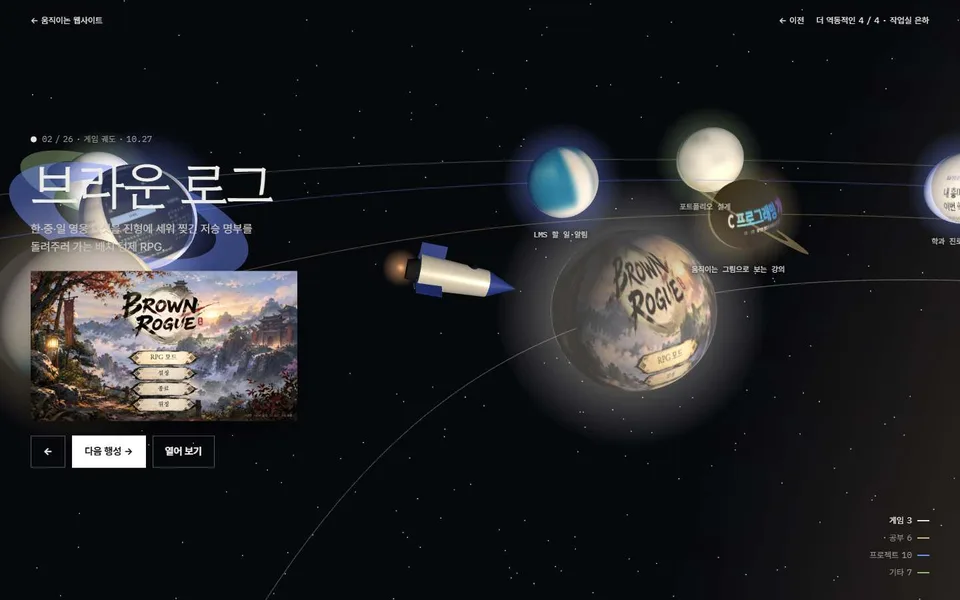
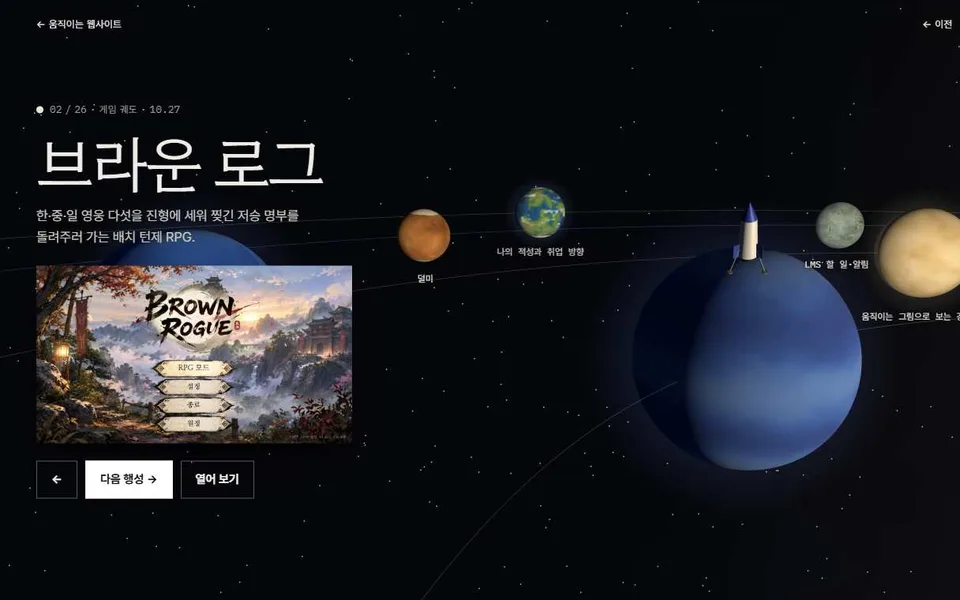
움직이는 웹사이트: 화면 배율 200%에서 3D가 잘리던 문제, 행성 착륙·실제 천체 겉면, 쫄라맨 천천히
- drive·planet: 3D 그림판(#gl)에 width/height 100% — 배율 200% 노트북에서 그림이 두 배로 그려져 왼쪽 위만 보이던 것(차가 화면 밖)을 고침, 계기판은 왼쪽 위로
- planet: 작품 그림 대신 지구·화성·목성·토성·해왕성·천왕성·달·금성·유로파·이오를 본뜬 겉면을 코드로 그림, 우주선이 이륙→비행→행성 위에 수직 착륙(다리·먼지 고리), 도착 화면은 해 쪽에서 비스듬히
- push: 한 번 넘기는 스크롤 1.9 → 3.8 화면, 스크롤을 부드럽게 따라가게

diff --git a/web-motion/move/planet.html b/web-motion/move/planet.html
@@ -7,11 +7,13 @@
 <link rel="stylesheet" href="../apply/apply.css">
 <script type="importmap">{"imports":{"three":"https://cdn.jsdelivr.net/npm/three@0.170.0/build/three.module.js"}}</script>
 <style>
-/* 작품 26개가 행성. 분류마다 궤도 하나(안쪽부터 게임·공부·프로젝트·기타), 행성은 그 궤도 둘레에 고르게. 우주선이 하나씩 날아가 도착하면 정보가 뜸 */
-body { height: 100svh; overflow: hidden; background: #07080c; color: var(--on-dark); user-select: none; -webkit-user-select: none }
-#gl { position: fixed; inset: 0 }
+/* 작품 26개가 행성. 분류마다 궤도 하나(안쪽부터 게임·공부·프로젝트·기타), 행성은 그 궤도 둘레에 고르게.
+   행성 겉면은 실제 태양계 천체(지구·화성·목성·토성·해왕성·천왕성·달·금성·유로파·이오)를 본떠 코드로 그리고 무늬만 조금씩 바꿈.
+   우주선이 이륙 → 날아감 → 다음 행성에 수직으로 착륙하면 정보가 뜸 */
+body { height: 100svh; overflow: hidden; background: #05060a; color: var(--on-dark); user-select: none; -webkit-user-select: none }
+#gl { position: fixed; inset: 0; width: 100%; height: 100%; display: block } /* 화면 배율 200%에서도 화면 크기에 맞게 */
 .top { color: var(--on-dark) }
-.lab { position: fixed; z-index: 3; left: 0; top: 0; pointer-events: none; font: 500 11.5px var(--mono); color: #d8d6cf; white-space: nowrap; transform: translate(-50%, 0); transition: opacity .3s; text-shadow: 0 1px 6px #000 }
+.lab { position: fixed; z-index: 3; left: 0; top: 0; pointer-events: none; font: 500 11.5px var(--mono); color: #d8d6cf; white-space: nowrap; transition: opacity .3s; text-shadow: 0 1px 6px #000 }
 .info { position: fixed; z-index: 10; left: var(--m); top: 50%; width: min(400px, calc(100vw - 32px)); transform: translate(-30px, -50%); opacity: 0; pointer-events: none; transition: opacity .5s, transform .6s var(--ease) }
 .info.on { opacity: 1; transform: translate(0, -50%); pointer-events: auto }
 .info .meta { color: var(--on-dark-soft) }
@@ -49,85 +51,140 @@ import * as THREE from "three";
 import { WORKS, ROOT } from "../apply/works.js";
 const $ = id => document.getElementById(id);
 const calm = matchMedia("(prefers-reduced-motion: reduce)").matches;
-const CATS = ["게임", "공부", "프로젝트", "기타"], RAD = [16, 27, 39, 52];
+const CATS = ["게임", "공부", "프로젝트", "기타"], RAD = [26, 46, 68, 90];
 const COL = { 게임: "#e9e5da", 공부: "#d6b77a", 프로젝트: "#6f8cff", 기타: "#93b27c" };
-const cl = (x, a, b) => Math.min(b, Math.max(a, x)), ease = k => k < .5 ? 4 * k * k * k : 1 - (-2 * k + 2) ** 3 / 2;
+const cl = (x, a, b) => Math.min(b, Math.max(a, x)), lerp = (a, b, k) => a + (b - a) * k;
+const ease = k => k < .5 ? 4 * k * k * k : 1 - (-2 * k + 2) ** 3 / 2, easeOut = k => 1 - (1 - k) ** 3, easeIn = k => k * k;
+const UP = new THREE.Vector3(0, 1, 0);
 
 /* ───────── 장면 ───────── */
 const renderer = new THREE.WebGLRenderer({ canvas: $("gl"), antialias: true });
 renderer.setPixelRatio(Math.min(devicePixelRatio, 2));
-const scene = new THREE.Scene(); scene.background = new THREE.Color(0x07080c);
-const camera = new THREE.PerspectiveCamera(50, 1, .1, 2000);
-function resize() { renderer.setSize(innerWidth, innerHeight, false); camera.aspect = innerWidth / innerHeight; camera.updateProjectionMatrix(); }
+const scene = new THREE.Scene(); scene.background = new THREE.Color(0x05060a);
+const camera = new THREE.PerspectiveCamera(48, 1, .1, 3000);
+function resize() { renderer.setSize(innerWidth, innerHeight); camera.aspect = innerWidth / innerHeight; camera.updateProjectionMatrix(); }
 addEventListener("resize", resize); resize();
-scene.add(new THREE.AmbientLight(0x8890a8, .35));
-const sunLight = new THREE.PointLight(0xfff1d6, 3.2, 0, 0); scene.add(sunLight);
+scene.add(new THREE.AmbientLight(0x6f7894, .28));
+scene.add(new THREE.PointLight(0xfff1d6, 3.4, 0, 0));
 function glowTex(c) { const cv = document.createElement("canvas"); cv.width = cv.height = 128; const g = cv.getContext("2d"), gr = g.createRadialGradient(64, 64, 0, 64, 64, 64);
-  gr.addColorStop(0, c); gr.addColorStop(.25, c + "88"); gr.addColorStop(1, c + "00"); g.fillStyle = gr; g.fillRect(0, 0, 128, 128); const t = new THREE.CanvasTexture(cv); t.colorSpace = THREE.SRGBColorSpace; return t; }
-const glow = (c, s) => { const sp = new THREE.Sprite(new THREE.SpriteMaterial({ map: glowTex(c), blending: THREE.AdditiveBlending, depthWrite: false, transparent: true })); sp.scale.setScalar(s); return sp; };
-// 별
-{ const n = 3000, pos = new Float32Array(n * 3); for (let i = 0; i < n; i++) { const v = new THREE.Vector3().randomDirection().multiplyScalar(350 + Math.random() * 400); pos.set([v.x, v.y, v.z], i * 3); }
+  gr.addColorStop(0, c); gr.addColorStop(.3, c + "66"); gr.addColorStop(1, c + "00"); g.fillStyle = gr; g.fillRect(0, 0, 128, 128); const t = new THREE.CanvasTexture(cv); t.colorSpace = THREE.SRGBColorSpace; return t; }
+const glow = (c, s, o = 1) => { const sp = new THREE.Sprite(new THREE.SpriteMaterial({ map: glowTex(c), blending: THREE.AdditiveBlending, depthWrite: false, transparent: true, opacity: o })); sp.scale.setScalar(s); return sp; };
+{ const n = 3500, pos = new Float32Array(n * 3); for (let i = 0; i < n; i++) { const v = new THREE.Vector3().randomDirection().multiplyScalar(600 + Math.random() * 600); pos.set([v.x, v.y, v.z], i * 3); }
   const g = new THREE.BufferGeometry(); g.setAttribute("position", new THREE.BufferAttribute(pos, 3));
-  scene.add(new THREE.Points(g, new THREE.PointsMaterial({ color: 0xffffff, size: 1.6, sizeAttenuation: false, transparent: true, opacity: .75 }))); }
-// 해 = 작업실
-const sun = new THREE.Mesh(new THREE.SphereGeometry(4.6, 48, 32), new THREE.MeshBasicMaterial({ color: 0xfff1d6 })); scene.add(sun, glow("#ffd9a0", 24));
-// 궤도
-CATS.forEach((c, k) => { const pts = []; for (let i = 0; i <= 256; i++) { const a = i / 256 * Math.PI * 2; pts.push(new THREE.Vector3(Math.cos(a) * RAD[k], 0, Math.sin(a) * RAD[k])); }
-  scene.add(new THREE.Line(new THREE.BufferGeometry().setFromPoints(pts), new THREE.LineBasicMaterial({ color: COL[c], transparent: true, opacity: .32 }))); });
+  scene.add(new THREE.Points(g, new THREE.PointsMaterial({ color: 0xffffff, size: 1.5, sizeAttenuation: false, transparent: true, opacity: .7 }))); }
+const sun = new THREE.Mesh(new THREE.SphereGeometry(8, 48, 32), new THREE.MeshBasicMaterial({ color: 0xfff0d0 })); scene.add(sun, glow("#ffd59a", 46));
+CATS.forEach((c, k) => { const pts = []; for (let i = 0; i <= 320; i++) { const a = i / 320 * Math.PI * 2; pts.push(new THREE.Vector3(Math.cos(a) * RAD[k], 0, Math.sin(a) * RAD[k])); }
+  scene.add(new THREE.Line(new THREE.BufferGeometry().setFromPoints(pts), new THREE.LineBasicMaterial({ color: COL[c], transparent: true, opacity: .3 }))); });
 
-/* ───────── 행성: 분류마다 궤도 둘레에 고르게, 표면은 그 작품 그림 ───────── */
-const loader = new THREE.TextureLoader(), planets = [];
+/* ───────── 행성 겉면: 실제 천체를 본떠 코드로 그림 (겹치지 않게 씨앗·색을 조금씩 바꿈) ───────── */
+const PERM = new Uint8Array(512), RV = new Float32Array(256);
+{ const p = [...Array(256).keys()]; let s = 11; for (let i = 255; i > 0; i--) { s = (s * 16807) % 2147483647; const j = s % (i + 1); [p[i], p[j]] = [p[j], p[i]]; } for (let i = 0; i < 512; i++) PERM[i] = p[i & 255];
+  for (let i = 0; i < 256; i++) { s = (s * 16807) % 2147483647; RV[i] = s / 2147483647; } }
+function vn(x, y, z) { // 3D 값 노이즈 (구 위에서 이음매 없음)
+  const X = Math.floor(x), Y = Math.floor(y), Z = Math.floor(z), fx = x - X, fy = y - Y, fz = z - Z, u = fx * fx * (3 - 2 * fx), v = fy * fy * (3 - 2 * fy), w = fz * fz * (3 - 2 * fz);
+  const h = (i, j, k) => RV[PERM[PERM[PERM[(X + i) & 255] + ((Y + j) & 255)] + ((Z + k) & 255)]];
+  const a = lerp(lerp(h(0, 0, 0), h(1, 0, 0), u), lerp(h(0, 1, 0), h(1, 1, 0), u), v), b = lerp(lerp(h(0, 0, 1), h(1, 0, 1), u), lerp(h(0, 1, 1), h(1, 1, 1), u), v);
+  return lerp(a, b, w);
+}
+function fbm(x, y, z, o = 4) { let a = .5, s = 0, f = 1, n = 0; for (let i = 0; i < o; i++) { s += a * vn(x * f, y * f, z * f); n += a; f *= 2.03; a *= .5; } return s / n; }
+const hex = h => [parseInt(h.slice(1, 3), 16), parseInt(h.slice(3, 5), 16), parseInt(h.slice(5, 7), 16)];
+const mixc = (a, b, k) => [lerp(a[0], b[0], k), lerp(a[1], b[1], k), lerp(a[2], b[2], k)];
+const ramp = (cols, k) => { k = cl(k, 0, .9999) * (cols.length - 1); const i = Math.floor(k); return mixc(cols[i], cols[i + 1], k - i); };
+// 종류: 크기, 고리, 대기빛, 그리는 법 (x,y,z = 구 위 점, lat = 위도 -1~1, s = 씨앗)
+const KIND = {
+  지구: { R: 3.4, air: "#7fb0ff", f(x, y, z, lat, s) { const n = fbm(x * 1.8 + s, y * 1.8, z * 1.8 + s, 5), c = fbm(x * 3.5 - s, y * 6, z * 3.5, 4);
+    let col = n < .5 ? mixc(hex("#0b2a5c"), hex("#1d5a9e"), cl((n - .3) / .2, 0, 1)) : ramp([hex("#3f6b34"), hex("#7a8a4a"), hex("#a08a5c"), hex("#8a7d70")], (n - .5) / .25);
+    if (Math.abs(lat) > .95 - n * .06) col = hex("#eef2f5"); if (c > .58) col = mixc(col, [250, 250, 252], cl((c - .58) * 4, 0, .9)); return col; } },
+  화성: { R: 2.6, f(x, y, z, lat, s) { const n = fbm(x * 2.2 + s, y * 2.2, z * 2.2, 5); let col = ramp([hex("#5e2a17"), hex("#9c4a28"), hex("#c46a3c"), hex("#d99a6c")], n * 1.15 - .05);
+    if (Math.abs(lat) > .9 - n * .08) col = mixc(col, hex("#f4ece4"), .85); return col; } },
+  목성: { R: 5.0, f(x, y, z, lat, s) { const t = fbm(x * 2 + s, y * 2, z * 2, 4), b = Math.sin(lat * (14 + s % 3) + t * 3.2);
+    let col = ramp([hex("#7a4e34"), hex("#b98a62"), hex("#e3cfae"), hex("#f2e6d0")], b * .5 + .5);
+    const lon = Math.atan2(z, x), dl = (lon - 1 - s % 2) * 1.6, dy = (lat + .32) * 9; if (dl * dl + dy * dy < 1) col = mixc(col, hex("#b44a2a"), .7 * (1 - dl * dl - dy * dy)); return col; } },
+  토성: { R: 4.4, ring: [1.35, 2.25, "#d9c79f"], f(x, y, z, lat, s) { const t = fbm(x * 2 + s, y * 2, z * 2, 3), b = Math.sin(lat * 11 + t * 1.6);
+    return ramp([hex("#a98a5a"), hex("#d6bf8e"), hex("#ece0bd")], b * .5 + .5); } },
+  해왕성: { R: 3.5, air: "#6f8cff", f(x, y, z, lat, s) { const t = fbm(x * 2 + s, y * 3, z * 2, 4), b = Math.sin(lat * 7 + t * 2.4);
+    let col = ramp([hex("#1d3c9c"), hex("#2f5fd0"), hex("#5d8be8")], b * .35 + .5); const lon = Math.atan2(z, x), dl = (lon + s % 2) * 2, dy = (lat - .25) * 10; if (dl * dl + dy * dy < 1) col = mixc(col, hex("#0f1f5c"), .7); return col; } },
+  천왕성: { R: 3.3, air: "#a6e6ea", ring: [1.5, 1.7, "#c6e8ea"], f(x, y, z, lat, s) { const t = fbm(x * 1.5 + s, y * 4, z * 1.5, 3); return ramp([hex("#8fd2da"), hex("#b2e6ea"), hex("#c9eef0")], Math.sin(lat * 5 + t) * .3 + .5); } },
+  달: { R: 2.3, f(x, y, z, lat, s) { const n = fbm(x * 2.6 + s, y * 2.6, z * 2.6, 5); let col = ramp([hex("#4e4e52"), hex("#8c8c8e"), hex("#bdbdbb")], n * 1.2 - .1);
+    const c = vn(x * 7 + s, y * 7, z * 7); if (c > .78) col = mixc(col, hex("#3a3a3e"), (c - .78) * 3); if (c > .72 && c < .76) col = mixc(col, hex("#e0e0dc"), .5); return col; } },
+  금성: { R: 3.2, air: "#ffe2a8", f(x, y, z, lat, s) { const w = fbm(x * 1.5 + s, y * 1.5, z * 1.5, 3), n = fbm(x * 2 + w * 2.5, y * 3 + w, z * 2, 4); return ramp([hex("#c99a4c"), hex("#e3c27e"), hex("#f4e2b4")], n * 1.2 - .1); } },
+  유로파: { R: 2.4, f(x, y, z, lat, s) { const n = fbm(x * 2 + s, y * 2, z * 2, 3), r = Math.abs(fbm(x * 3.2 - s, y * 3.2, z * 3.2, 4) - .5);
+    let col = mixc(hex("#e8e2d6"), hex("#cdbfa8"), n); if (r < .018) col = mixc(col, hex("#8a4a2c"), .8 * (1 - r / .018)); return col; } },
+  이오: { R: 2.5, f(x, y, z, lat, s) { const n = fbm(x * 2.4 + s, y * 2.4, z * 2.4, 4); let col = ramp([hex("#c9a531"), hex("#e6d25a"), hex("#f2e9a0")], n);
+    const c = vn(x * 6 + s, y * 6, z * 6); if (c > .8) col = mixc(col, hex("#2a1a10"), (c - .8) * 4); else if (c > .7) col = mixc(col, hex("#d5672a"), (c - .7) * 5); return col; } },
+};
+const KIND_ORDER = ["지구", "목성", "화성", "해왕성", "토성", "달", "금성", "천왕성", "유로파", "이오"];
+const TW = 320, TH = 160;
+function paint(kind, seed, hue) { // 등장방형 그림 한 장
+  const c = document.createElement("canvas"); c.width = TW; c.height = TH; const g = c.getContext("2d"), img = g.createImageData(TW, TH), d = img.data;
+  for (let j = 0; j < TH; j++) { const la = (.5 - (j + .5) / TH) * Math.PI, cy = Math.sin(la), cr = Math.cos(la);
+    for (let i = 0; i < TW; i++) { const lo = (i + .5) / TW * Math.PI * 2, x = cr * Math.cos(lo), z = cr * Math.sin(lo);
+      const [r, gg, b] = KIND[kind].f(x, cy, z, cy, seed), k = (j * TW + i) * 4; d[k] = r; d[k + 1] = gg; d[k + 2] = b; d[k + 3] = 255; } }
+  g.putImageData(img, 0, 0); if (hue) { g.globalCompositeOperation = "color"; g.globalAlpha = .12; g.fillStyle = `hsl(${hue},60%,50%)`; g.fillRect(0, 0, TW, TH); }
+  const t = new THREE.CanvasTexture(c); t.colorSpace = THREE.SRGBColorSpace; t.anisotropy = 4; return t;
+}
+
+/* ───────── 행성: 분류마다 궤도 둘레에 고르게 ───────── */
+const planets = [];
 CATS.forEach((cat, k) => {
-  const list = WORKS.filter(w => w.cat === cat), r = RAD[k], a0 = k * .7;
+  const list = WORKS.filter(w => w.cat === cat), r = RAD[k], a0 = k * .9;
   list.forEach((w, i) => {
-    const R = 1.5 + ((w.t.length * 7 + i * 3) % 10) / 10 * 1.3, grp = new THREE.Group();
-    const m = new THREE.MeshStandardMaterial({ color: 0xffffff, roughness: .85, emissive: new THREE.Color(COL[cat]), emissiveIntensity: .06 });
-    loader.load(ROOT + w.img, t => { t.colorSpace = THREE.SRGBColorSpace; t.wrapS = THREE.RepeatWrapping; t.repeat.x = 2; m.map = t; m.needsUpdate = true; });
-    const ball = new THREE.Mesh(new THREE.SphereGeometry(R, 48, 32), m); ball.rotation.z = .3; grp.add(ball, glow(COL[cat], R * 3.4));
-    if ((i + k) % 3 === 0) { const ring = new THREE.Mesh(new THREE.RingGeometry(R * 1.4, R * 2.05, 64), new THREE.MeshBasicMaterial({ color: COL[cat], side: THREE.DoubleSide, transparent: true, opacity: .45 }));
-      ring.rotation.x = Math.PI / 2 - .5; grp.add(ring); }
+    const n = planets.length, kind = KIND_ORDER[(n * 3 + k) % KIND_ORDER.length], K = KIND[kind], R = K.R * (.9 + ((n * 37) % 10) / 50);
+    const grp = new THREE.Group(), mat = new THREE.MeshStandardMaterial({ color: 0x888888, roughness: .95, metalness: 0 });
+    const ball = new THREE.Mesh(new THREE.SphereGeometry(R, 64, 40), mat); ball.rotation.z = (n % 5 - 2) * .06; grp.add(ball);
+    if (K.air) grp.add(glow(K.air, R * 2.9, .55));
+    if (K.ring) { const [a, b, rc] = K.ring, rg = new THREE.RingGeometry(R * a, R * b, 96), uv = rg.attributes.uv, pos = rg.attributes.position;
+      for (let v = 0; v < pos.count; v++) { const d = Math.hypot(pos.getX(v), pos.getY(v)); uv.setXY(v, (d - R * a) / (R * (b - a)), 0); }
+      const rcan = document.createElement("canvas"); rcan.width = 256; rcan.height = 1; const rg2 = rcan.getContext("2d"), [cr, cg, cb] = hex(rc);
+      for (let x = 0; x < 256; x++) { const al = (.35 + .45 * vn(x * .09 + n, 0, 0)) * (x < 6 || x > 250 ? .3 : 1) * (Math.abs(x - 170) < 7 ? .15 : 1); rg2.fillStyle = `rgba(${cr},${cg},${cb},${al})`; rg2.fillRect(x, 0, 1, 1); }
+      const rt = new THREE.CanvasTexture(rcan); rt.colorSpace = THREE.SRGBColorSpace;
+      const ring = new THREE.Mesh(rg, new THREE.MeshBasicMaterial({ map: rt, side: THREE.DoubleSide, transparent: true, depthWrite: false })); ring.rotation.x = Math.PI / 2 - .38; grp.add(ring); }
     scene.add(grp);
     const lab = document.createElement("div"); lab.className = "lab"; lab.textContent = w.t; $("labels").append(lab);
-    planets.push({ w, cat, k, r, R, a: a0 + i / list.length * Math.PI * 2, om: .016 * Math.pow(16 / r, 1.5), grp, ball, lab, pos: new THREE.Vector3() });
+    planets.push({ w, cat, k, r, R, kind, seed: n * 13.7 + 3, hue: (n * 47) % 360, mat, a: a0 + i / list.length * Math.PI * 2, om: .012 * Math.pow(26 / r, 1.5), grp, ball, lab, pos: new THREE.Vector3() });
   });
 });
-function place(p, dt) { if (!calm) p.a += p.om * dt; p.pos.set(Math.cos(p.a) * p.r, 0, Math.sin(p.a) * p.r); p.grp.position.copy(p.pos); p.ball.rotation.y += dt * .15; }
+function place(p, dt) { if (!calm) { p.a += p.om * dt; p.ball.rotation.y += dt * .04; } p.pos.set(Math.cos(p.a) * p.r, 0, Math.sin(p.a) * p.r); p.grp.position.copy(p.pos); }
 planets.forEach(p => place(p, 0));
+let paintI = 0; // 한 프레임에 하나씩 겉면 그리기 (처음 몇 초 안에 다 됨)
 $("legend").innerHTML = CATS.map((c, k) => `<span data-k="${k}" style="--c:${COL[c]}">${c} ${planets.filter(p => p.k === k).length}<i></i></span>`).join("");
 
-/* ───────── 우주선 ───────── */
-const ship = new THREE.Group(), sm = c => new THREE.MeshStandardMaterial({ color: c, roughness: .4, metalness: .2 });
-{ const body = new THREE.Mesh(new THREE.CylinderGeometry(.42, .55, 2.2, 20), sm(0xf2f1ec)); body.rotation.x = Math.PI / 2;
-  const nose = new THREE.Mesh(new THREE.ConeGeometry(.42, 1, 20), sm(0x2b44a6)); nose.rotation.x = Math.PI / 2; nose.position.z = 1.6;
-  const win = new THREE.Mesh(new THREE.SphereGeometry(.2, 16, 12), sm(0x0d1330)); win.position.set(0, .32, .55);
-  const noz = new THREE.Mesh(new THREE.CylinderGeometry(.4, .3, .4, 16), sm(0x2a2b30)); noz.rotation.x = Math.PI / 2; noz.position.z = -1.25;
+/* ───────── 우주선 (앞 = +z, 착륙하면 앞이 하늘로, 다리가 땅에) ───────── */
+const ship = new THREE.Group(), sm = c => new THREE.MeshStandardMaterial({ color: c, roughness: .45, metalness: .25 });
+{ const body = new THREE.Mesh(new THREE.CylinderGeometry(.42, .55, 2.2, 24), sm(0xf2f1ec)); body.rotation.x = Math.PI / 2;
+  const nose = new THREE.Mesh(new THREE.ConeGeometry(.42, 1, 24), sm(0x2b44a6)); nose.rotation.x = Math.PI / 2; nose.position.z = 1.6;
+  const win = new THREE.Mesh(new THREE.SphereGeometry(.2, 16, 12), sm(0x0d1330)); win.position.set(0, .34, .5);
+  const noz = new THREE.Mesh(new THREE.CylinderGeometry(.36, .28, .4, 16), sm(0x2a2b30)); noz.rotation.x = Math.PI / 2; noz.position.z = -1.25;
   ship.add(body, nose, win, noz);
-  for (let i = 0; i < 3; i++) { const f = new THREE.Mesh(new THREE.BoxGeometry(.06, .7, .8), sm(0x2b44a6)); const a = i / 3 * Math.PI * 2; f.position.set(Math.sin(a) * .55, Math.cos(a) * .55, -.75); f.rotation.z = -a; ship.add(f); } }
-const flame = new THREE.Mesh(new THREE.ConeGeometry(.3, 1.6, 16, 1, true), new THREE.MeshBasicMaterial({ color: 0xffc27a, transparent: true, opacity: .9, blending: THREE.AdditiveBlending, depthWrite: false }));
-flame.rotation.x = -Math.PI / 2; flame.position.z = -2.1; ship.add(flame); const flameGlow = glow("#ffb070", 3); flameGlow.position.z = -1.6; ship.add(flameGlow);
-ship.scale.setScalar(.8); scene.add(ship);
-// 꼬리 연기
-const TR = 160, trail = Array.from({ length: TR }, () => { const s = glow("#aab4ff", 1); s.material.opacity = 0; scene.add(s); return { s, life: 0 }; }); let trI = 0;
-// 도착 고리
-const pulse = new THREE.Mesh(new THREE.RingGeometry(.96, 1, 96), new THREE.MeshBasicMaterial({ color: 0xffffff, transparent: true, opacity: 0, side: THREE.DoubleSide, depthWrite: false })); scene.add(pulse); let pulseT = -1, pulseP = null;
+  for (let i = 0; i < 3; i++) { const a = i / 3 * Math.PI * 2 + Math.PI / 3, f = new THREE.Mesh(new THREE.BoxGeometry(.06, .6, .8), sm(0x2b44a6)); f.position.set(Math.sin(a) * .58, Math.cos(a) * .58, -.7); f.rotation.z = -a; ship.add(f);
+    // 착륙 다리: 몸 옆에서 바깥·아래로
+    const top = new THREE.Vector3(Math.sin(a) * .5, Math.cos(a) * .5, -.6), foot = new THREE.Vector3(Math.sin(a) * 1.05, Math.cos(a) * 1.05, -1.9);
+    const leg = new THREE.Mesh(new THREE.CylinderGeometry(.04, .04, top.distanceTo(foot), 6), sm(0x8f8b80)); leg.position.copy(top).add(foot).multiplyScalar(.5);
+    leg.quaternion.setFromUnitVectors(new THREE.Vector3(0, 1, 0), foot.clone().sub(top).normalize()); ship.add(leg);
+    const pd = new THREE.Mesh(new THREE.CylinderGeometry(.16, .16, .05, 12), sm(0x8f8b80)); pd.position.copy(foot); pd.rotation.x = Math.PI / 2; ship.add(pd); } }
+const flame = new THREE.Mesh(new THREE.ConeGeometry(.28, 1.6, 16, 1, true), new THREE.MeshBasicMaterial({ color: 0xffc27a, transparent: true, opacity: .8, blending: THREE.AdditiveBlending, depthWrite: false }));
+flame.rotation.x = -Math.PI / 2; flame.position.z = -2.1; ship.add(flame); const flameGlow = glow("#ffb070", 2.4); flameGlow.position.z = -1.6; ship.add(flameGlow);
+const SCALE = .72, FOOT = 1.92 * SCALE; ship.scale.setScalar(SCALE); scene.add(ship);
+const TR = 140, trail = Array.from({ length: TR }, () => { const s = glow("#b9c2ff", 1, 0); scene.add(s); return { s, life: 0 }; }); let trI = 0;
+const dustRing = new THREE.Mesh(new THREE.RingGeometry(.9, 1, 64), new THREE.MeshBasicMaterial({ color: 0xffffff, transparent: true, opacity: 0, side: THREE.DoubleSide, depthWrite: false })); scene.add(dustRing); let dustT = -1;
 
-/* ───────── 여행 ───────── */
-const ORDER = [...planets]; // 안쪽 궤도부터, 궤도 안에선 각도 순
-let cur = -1, fly = null, thrust = 0;
-const UP = new THREE.Vector3(0, 1, 0);
-const HOME = new THREE.Vector3(7.5, 1.2, 4);
-// 행성을 보는 방향: 해 쪽에서 비스듬히(밝은 면이 보이게)
+/* ───────── 착륙 자리·보는 방향 ───────── */
+// 카메라는 해 쪽에서 비스듬히(행성 밝은 면이 보이게), 착륙은 행성 위쪽에서 카메라 쪽으로 조금 기운 자리
 function view(p) { const o = p.pos.clone().normalize(), side = new THREE.Vector3().crossVectors(UP, o);
-  const dir = o.clone().multiplyScalar(-.62).addScaledVector(side, .72).addScaledVector(UP, .32).normalize(); // 행성 → 카메라
+  const dir = o.clone().multiplyScalar(-.55).addScaledVector(side, .83).normalize(); // 행성 → 카메라(수평)
   const right = new THREE.Vector3().crossVectors(dir.clone().negate(), UP).normalize(); return { dir, right }; }
-// 우주선은 행성 왼쪽 앞에 떠서 행성을 봄 (행성을 가리지 않게)
-function park(p) { const { dir, right } = view(p); return p.pos.clone().addScaledVector(dir, p.R * .6 + 1).addScaledVector(right, -(p.R * 1.25 + 1.6)).addScaledVector(UP, p.R * .2); }
-ship.position.copy(HOME); ship.lookAt(HOME.clone().add(new THREE.Vector3(1, 0, 0)));
+function pad(p) { const { dir } = view(p), n = UP.clone().addScaledVector(dir, .5).normalize(); return { n, pos: p.pos.clone().addScaledVector(n, p.R + FOOT) }; }
+const HOME = { pos: new THREE.Vector3(14, FOOT, 6), n: UP.clone() };
+const ORDER = [...planets];
+let cur = -1, fly = null, thrust = 0;
+const qUp = n => new THREE.Quaternion().setFromUnitVectors(new THREE.Vector3(0, 0, 1), n); // 앞(+z)이 n을 보게
+ship.position.copy(HOME.pos); ship.quaternion.copy(qUp(UP));
+
 function go(i) {
   i = (i + ORDER.length) % ORDER.length; if (fly) return;
-  const from = ship.position.clone(), to = park(ORDER[i]), d = from.distanceTo(to);
-  const fwd = new THREE.Vector3(0, 0, 1).applyQuaternion(ship.quaternion);
-  fly = { i, t0: performance.now(), dur: calm ? 300 : cl(1700 + d * 38, 2000, 4600), from, c1: from.clone().addScaledVector(fwd, d * .3).addScaledVector(UP, d * .22), d };
+  const from = cur < 0 ? HOME : pad(ORDER[cur]);
+  fly = { i, t0: performance.now(), n0: from.n.clone(), p0: ship.position.clone() };
+  fly.d = fly.p0.distanceTo(pad(ORDER[i]).pos); fly.dur = calm ? 400 : cl(2600 + fly.d * 28, 3200, 6500);
   $("intro").classList.remove("on"); $("info").classList.remove("on");
 }
 function arrive(i) {
@@ -135,72 +192,71 @@ function arrive(i) {
   $("iMeta").innerHTML = `<i style="--c:${COL[p.cat]}"></i>${String(i + 1).padStart(2, "0")} / ${ORDER.length} · ${p.cat} 궤도 · ${w.d}${w.lock ? " · 잠금" : ""}`;
   $("iT").textContent = w.t; $("iS").textContent = w.s; $("iImg").src = ROOT + w.img; $("open").href = ROOT + w.href;
   $("next").textContent = i === ORDER.length - 1 ? "처음 행성으로 →" : "다음 행성 →";
-  $("info").classList.add("on"); pulseT = 0; pulseP = p;
+  $("info").classList.add("on"); dustT = 0;
   document.querySelectorAll("#legend span").forEach(s => s.classList.toggle("cur", +s.dataset.k === p.k));
 }
-$("go").onclick = () => go(0);
-$("next").onclick = () => go(cur + 1);
-$("prev").onclick = () => go(cur - 1);
+$("go").onclick = () => go(0); $("next").onclick = () => go(cur + 1); $("prev").onclick = () => go(cur - 1);
 addEventListener("keydown", e => { if (e.code === "ArrowRight" || e.code === "Space") { e.preventDefault(); go(cur + 1); } if (e.code === "ArrowLeft") go(cur < 0 ? 0 : cur - 1); });
-// 행성을 누르면 거기로
 const ray = new THREE.Raycaster();
 $("gl").addEventListener("click", e => { ray.setFromCamera(new THREE.Vector2(e.clientX / innerWidth * 2 - 1, -e.clientY / innerHeight * 2 + 1), camera);
   const hit = ray.intersectObjects(planets.map(p => p.ball))[0]; if (hit) go(ORDER.findIndex(p => p.ball === hit.object)); });
 
-/* ───────── 카메라 ───────── */
-const camPos = new THREE.Vector3(0, 70, 95), camLook = new THREE.Vector3(), wantPos = new THREE.Vector3(), wantLook = new THREE.Vector3();
-camera.position.copy(camPos);
+/* ───────── 매 프레임 ───────── */
 function bez(a, b, c, d, t) { const u = 1 - t; return a.clone().multiplyScalar(u * u * u).addScaledVector(b, 3 * u * u * t).addScaledVector(c, 3 * u * t * t).addScaledVector(d, t * t * t); }
-let last = performance.now();
-const q = new THREE.Quaternion(), m4 = new THREE.Matrix4(), v3 = new THREE.Vector3();
+function landedShot(p, outPos, outLook) { // 행성은 화면 오른쪽(폰은 위), 그 위에 선 우주선이 보이게
+  const portrait = camera.aspect < 1, { dir, right } = view(p), dist = p.R * (portrait ? 6.2 : 3.6) + 9;
+  outPos.copy(p.pos).addScaledVector(dir, dist).addScaledVector(UP, p.R * .9 + 3);
+  outLook.copy(p.pos).addScaledVector(UP, p.R * .45);
+  if (portrait) outLook.addScaledVector(UP, -p.R * 1.4); else outLook.addScaledVector(right, -p.R * 1.6);
+}
+const camPos = new THREE.Vector3(0, 150, 170), camLook = new THREE.Vector3(), wantPos = new THREE.Vector3(), wantLook = new THREE.Vector3(), tmpP = new THREE.Vector3(), tmpL = new THREE.Vector3();
+camera.position.copy(camPos);
+let last = performance.now(), shake = 0;
 function frame(now) {
   requestAnimationFrame(frame);
   const dt = Math.min(.05, (now - last) / 1000); last = now;
+  if (paintI < planets.length) { const p = planets[paintI++]; p.mat.map = paint(p.kind, p.seed, p.hue); p.mat.color.set(0xffffff); p.mat.needsUpdate = true; }
   planets.forEach(p => place(p, dt));
   const portrait = camera.aspect < 1;
   if (fly) {
-    const p = ORDER[fly.i], to = park(p), k = cl((now - fly.t0) / fly.dur, 0, 1), e = ease(k);
-    const c2 = to.clone().addScaledVector(p.pos.clone().normalize(), fly.d * .25).addScaledVector(UP, fly.d * .18);
-    const pos = bez(fly.from, fly.c1, c2, to, e), ahead = bez(fly.from, fly.c1, c2, to, Math.min(1, e + .02));
-    ship.position.copy(pos);
-    if (k < .97) { m4.lookAt(ahead, pos, UP); q.setFromRotationMatrix(m4); ship.quaternion.slerp(q, 1 - Math.exp(-dt * 10)); }
-    thrust += ((k < .75 ? 1 : .15) - thrust) * Math.min(1, dt * 6);
-    // 따라가는 3인칭
-    const fwd = new THREE.Vector3(0, 0, 1).applyQuaternion(ship.quaternion);
-    wantPos.copy(pos).addScaledVector(fwd, -7.5).addScaledVector(UP, 2.6); wantLook.copy(pos).addScaledVector(fwd, 5);
-    if (k > .7) { const s = (k - .7) / .3; frameShot(p, v3); wantPos.lerp(v3, ease(s)); wantLook.lerp(frameLook, ease(s)); }
-    if (k >= 1) { const i = fly.i; fly = null; arrive(i); }
+    const p = ORDER[fly.i], tg = pad(p), k = cl((now - fly.t0) / fly.dur, 0, 1);
+    const A = fly.p0.clone().addScaledVector(fly.n0, 6), B = tg.pos.clone().addScaledVector(tg.n, 9);
+    const h = B.clone().sub(A).setY(0).normalize();
+    let pos, look;
+    if (k < .16) { const e = easeIn(k / .16); pos = fly.p0.clone().lerp(A, e); look = fly.n0; thrust = 1; } // 이륙: 곧장 위로
+    else if (k < .8) { const e = ease((k - .16) / .64), c1 = A.clone().addScaledVector(fly.n0, fly.d * .25), c2 = B.clone().addScaledVector(tg.n, fly.d * .25);
+      pos = bez(A, c1, c2, B, e); look = bez(A, c1, c2, B, Math.min(1, e + .015)).sub(pos).normalize(); thrust = .85; }
+    else { const e = easeOut((k - .8) / .2); pos = B.clone().lerp(tg.pos, e); look = tg.n; thrust = .9 - e * .7; } // 착륙: 꼬리부터 천천히 내려앉음
+    ship.position.copy(pos); ship.quaternion.slerp(qUp(look), 1 - Math.exp(-dt * (k < .8 ? 6 : 9)));
+    // 3인칭: 가는 방향 뒤·위에서 따라감 → 끝에 도착 장면으로
+    wantPos.copy(pos).addScaledVector(h, -14).addScaledVector(UP, 5); wantLook.copy(pos).addScaledVector(h, 8);
+    if (k > .68) { landedShot(p, tmpP, tmpL); const s = ease((k - .68) / .32); wantPos.lerp(tmpP, s); wantLook.lerp(tmpL, s); }
+    if (k >= 1) { const i = fly.i; fly = null; shake = .5; arrive(i); }
   } else if (cur >= 0) {
-    const p = ORDER[cur], to = park(p); ship.position.lerp(to, 1 - Math.exp(-dt * 4)); ship.position.y += Math.sin(now / 700) * .004;
-    m4.lookAt(p.pos, ship.position, UP); q.setFromRotationMatrix(m4); ship.quaternion.slerp(q, 1 - Math.exp(-dt * 2));
-    thrust += (0.05 - thrust) * Math.min(1, dt * 4);
-    frameShot(p, wantPos); wantLook.copy(frameLook);
-  } else { // 처음: 은하 전체
-    wantPos.set(10, portrait ? 110 : 62, portrait ? 120 : 92); wantLook.set(portrait ? 0 : -12, 0, 0);
-    ship.position.y = HOME.y + Math.sin(now / 700) * .15; thrust = .05;
+    const p = ORDER[cur], tg = pad(p); ship.position.copy(tg.pos); ship.quaternion.slerp(qUp(tg.n), 1 - Math.exp(-dt * 6));
+    thrust += (0 - thrust) * Math.min(1, dt * 3);
+    landedShot(p, wantPos, wantLook);
+  } else {
+    wantPos.set(20, portrait ? 190 : 105, portrait ? 210 : 165); wantLook.set(portrait ? 0 : -22, 0, 0);
+    ship.position.copy(HOME.pos); thrust = 0;
   }
-  camPos.lerp(wantPos, 1 - Math.exp(-dt * (fly ? 6 : 2.4))); camLook.lerp(wantLook, 1 - Math.exp(-dt * (fly ? 7 : 2.4)));
-  camera.position.copy(camPos); camera.lookAt(camLook);
-  // 불꽃·연기
-  const fl = calm ? .2 : thrust * (.85 + Math.random() * .3); flame.scale.set(1, Math.max(.05, fl), 1); flame.position.z = -1.3 - .8 * fl; flame.material.opacity = .3 + .4 * thrust; flameGlow.scale.setScalar(1 + 3 * thrust);
-  if (fly && thrust > .4 && !calm) { const t = trail[trI = (trI + 1) % TR]; t.s.position.copy(ship.position).addScaledVector(new THREE.Vector3(0, 0, 1).applyQuaternion(ship.quaternion), -1.8); t.life = 1; }
-  trail.forEach(t => { if (t.life <= 0) return; t.life -= dt * .9; t.s.material.opacity = Math.max(0, t.life) * .18; t.s.scale.setScalar(.6 + (1 - t.life) * 2.2); });
-  if (pulseT >= 0 && pulseP) { pulseT += dt; const k = pulseT / 1.4; if (k > 1) { pulseT = -1; pulse.material.opacity = 0; } else { pulse.position.copy(pulseP.pos); pulse.lookAt(camera.position); pulse.scale.setScalar(pulseP.R * (1.2 + k * 3)); pulse.material.opacity = (1 - k) * .7; } }
-  // 이름표: 가까운 행성만 진하게, 지금 있는 행성은 숨김
-  const box = $("info").classList.contains("on") || $("intro").classList.contains("on") ? (($("info").classList.contains("on") ? $("info") : $("intro")).getBoundingClientRect()) : null;
-  planets.forEach(p => { v3.copy(p.pos).add(new THREE.Vector3(0, -p.R - .8, 0)).project(camera); const d = camera.position.distanceTo(p.pos);
-    const sx = (v3.x * .5 + .5) * innerWidth, sy = (-v3.y * .5 + .5) * innerHeight, under = box && sx > box.left - 60 && sx < box.right + 60 && sy > box.top - 20 && sy < box.bottom + 20; // 정보 칸 밑에 깔리는 이름표는 숨김
-    const vis = v3.z < 1 && !under && !(p === ORDER[cur] && !fly); p.lab.style.opacity = vis ? cl(1.4 - d / 90, .25, 1) : 0;
+  camPos.lerp(wantPos, 1 - Math.exp(-dt * (fly ? 5 : 2.2))); camLook.lerp(wantLook, 1 - Math.exp(-dt * (fly ? 6 : 2.2)));
+  camera.position.copy(camPos); shake *= Math.exp(-dt * 7);
+  if (shake > .01 && !calm) camera.position.add(new THREE.Vector3(Math.random() - .5, Math.random() - .5, 0).multiplyScalar(shake * .5));
+  camera.lookAt(camLook);
+  // 불꽃·연기·착륙 먼지
+  const fl = calm ? .1 : thrust * (.85 + Math.random() * .3); flame.visible = fl > .03; flame.scale.set(1, Math.max(.05, fl), 1); flame.position.z = -1.3 - .8 * fl; flameGlow.scale.setScalar(.2 + 2.6 * thrust); flameGlow.material.opacity = thrust;
+  if (fly && thrust > .4 && !calm) { const t = trail[trI = (trI + 1) % TR]; t.s.position.copy(ship.position).addScaledVector(new THREE.Vector3(0, 0, 1).applyQuaternion(ship.quaternion), -1.2); t.life = 1; }
+  trail.forEach(t => { if (t.life <= 0) return; t.life -= dt * .8; t.s.material.opacity = Math.max(0, t.life) * .16; t.s.scale.setScalar(.5 + (1 - t.life) * 2); });
+  if (dustT >= 0 && cur >= 0) { dustT += dt; const k = dustT / 1.1, tg = pad(ORDER[cur]);
+    if (k > 1) { dustT = -1; dustRing.material.opacity = 0; } else { dustRing.position.copy(tg.pos).addScaledVector(tg.n, -FOOT + .05); dustRing.quaternion.setFromUnitVectors(new THREE.Vector3(0, 0, 1), tg.n); dustRing.scale.setScalar(.6 + k * 3); dustRing.material.opacity = (1 - k) * .6; } }
+  // 이름표 (정보 칸 밑·지금 있는 행성은 숨김)
+  const box = (fly ? null : ($("info").classList.contains("on") ? $("info") : $("intro").classList.contains("on") ? $("intro") : null))?.getBoundingClientRect();
+  planets.forEach(p => { tmpP.copy(p.pos).add(new THREE.Vector3(0, -p.R - 1, 0)).project(camera); const d = camera.position.distanceTo(p.pos);
+    const sx = (tmpP.x * .5 + .5) * innerWidth, sy = (-tmpP.y * .5 + .5) * innerHeight, under = box && sx > box.left - 60 && sx < box.right + 60 && sy > box.top - 20 && sy < box.bottom + 20;
+    const vis = tmpP.z < 1 && !under && !(p === ORDER[cur] && !fly); p.lab.style.opacity = vis ? cl(1.5 - d / 140, .25, 1) : 0;
     p.lab.style.transform = `translate(${sx}px, ${sy}px) translate(-50%, 0)`; });
   renderer.render(scene, camera);
-}
-// 도착 장면: 행성은 화면 오른쪽(폰은 위쪽), 우주선은 그 앞, 정보는 왼쪽
-const frameLook = new THREE.Vector3();
-function frameShot(p, out) {
-  const portrait = camera.aspect < 1, { dir, right } = view(p), dist = p.R * (portrait ? 8 : 5.4) + 6;
-  out.copy(p.pos).addScaledVector(dir, dist);
-  frameLook.copy(p.pos);
-  if (portrait) frameLook.addScaledVector(UP, -p.R * 1.6); else frameLook.addScaledVector(right, -p.R * 1.9); // 행성은 오른쪽(폰은 위)
 }
 requestAnimationFrame(frame);
 </script>

diff --git a/web-motion/index.html b/web-motion/index.html
@@ -438,9 +438,9 @@ b { font-weight: 700 }
       <p class="can t-ok"><i>쓸 곳</i>레이싱 휠 프로젝트 소개의 마지막 놀이 칸</p><a class="dlink" href="move/drive.html">열어 보기 →</a></div>
   </article>
   <article class="site grid">
-    <a href="move/planet.html"><img src="img/dyn/planet.webp" alt="어두운 우주에서 브라운 로그 그림이 입혀진 행성 옆에 우주선이 떠 있고 왼쪽에 작품 정보가 뜬 장면" width="960" height="600" loading="lazy"></a>
+    <a href="move/planet.html"><img src="img/dyn/planet.webp" alt="해왕성을 닮은 파란 행성 위에 우주선이 서 있고 왼쪽에 브라운 로그 정보가 뜬 장면" width="960" height="600" loading="lazy"></a>
     <div class="txt"><h3><a href="move/planet.html">작업실 은하</a></h3><p class="who mono">사용자 아이디어 · 행성 탐방</p>
-      <p>작품 26개가 행성이에요. 가운데 해를 두고 분류마다 궤도가 하나 — 안쪽부터 게임·공부·프로젝트·기타 — 이고, 같은 분류 행성은 그 궤도 둘레에 고르게 떠서 천천히 돌아요. 행성 겉면엔 그 작품 그림이 입혀져 있어요. '다음 행성'을 누르면 우주선이 불꽃을 뿜으며 출발하고, 뒤에서 따라가던 화면이 도착하면 행성 쪽으로 돌아 정보가 떠요. 행성을 바로 눌러도 그리로 날아가요.</p>
+      <p>작품 26개가 행성이에요. 가운데 해를 두고 분류마다 궤도가 하나 — 안쪽부터 게임·공부·프로젝트·기타 — 이고, 같은 분류 행성은 그 궤도 둘레에 고르게 떠서 천천히 돌아요. 행성 겉면은 지구·화성·목성·토성·해왕성·천왕성·달·금성·유로파·이오를 본떠 코드로 그리고 무늬와 색만 조금씩 바꿨어요. '다음 행성'을 누르면 우주선이 불꽃을 뿜으며 곧장 이륙해 날아가고, 다음 행성 위에 꼬리부터 천천히 내려앉으면 정보가 떠요. 행성을 바로 눌러도 그리로 날아가요.</p>
       <p class="can t-ok"><i>쓸 곳</i>작업실 첫 화면 '전체 작품 보기'를 여행으로</p><a class="dlink" href="move/planet.html">열어 보기 →</a></div>
   </article>
 </section>

diff --git a/web-motion/move/drive.html b/web-motion/move/drive.html
@@ -9,8 +9,8 @@
 <style>
 /* 한 바퀴 서킷을 분류 넷으로 나눈 '작업실 그랑프리'. 구간마다 풍경이 다르고, 작품 표지판 26개가 트랙 옆에 서 있음 (Three.js + cannon-es) */
 body { height: 100svh; overflow: hidden; background: #f2f1ec; user-select: none; -webkit-user-select: none }
-#gl { position: fixed; inset: 0; touch-action: none }
-.hud { position: fixed; z-index: 10; left: 50%; top: 58px; transform: translateX(-50%); display: flex; gap: 14px; align-items: center; padding: 8px 14px; background: rgb(21 21 20 / .86); color: var(--on-dark); white-space: nowrap }
+#gl { position: fixed; inset: 0; width: 100%; height: 100%; display: block; touch-action: none } /* 화면 배율 200%에서도 화면 크기에 맞게 */
+.hud { position: fixed; z-index: 10; left: var(--m); top: 58px; display: flex; gap: 14px; align-items: center; padding: 8px 14px; background: rgb(21 21 20 / .86); color: var(--on-dark); white-space: nowrap }
 .hud .sec { padding: 2px 8px; background: var(--c, #2b44a6); color: #fff; font-weight: 500 }
 .hud .best { color: var(--on-dark-soft) }
 .card { position: fixed; z-index: 10; left: 50%; bottom: clamp(16px, 4vh, 36px); width: min(560px, calc(100vw - 32px)); transform: translate(-50%, calc(100% + 60px)); transition: transform .45s var(--ease);

diff --git a/web-motion/move/push.html b/web-motion/move/push.html
@@ -129,7 +129,7 @@ function follow(p, dt) {
 
 /* ───────── 스크롤 → 장면 ───────── */
 const cv = $("cv"), g = cv.getContext("2d");
-const HERO = .45, SEG = 1.9, N = 4, END = .9;
+const HERO = .6, SEG = 3.8, N = 4, END = 1.2; // SEG: 한 번 넘기는 데 드는 스크롤(화면 높이 단위) — 길수록 천천히
 let W, H, dpr, S, GY, pushEnd = 0;
 function layout() {
   dpr = Math.min(devicePixelRatio, 2); W = innerWidth; H = innerHeight;
@@ -208,11 +208,12 @@ function scene(s, now, v) {
 }
 
 /* ───────── 그리기 ───────── */
-let sPrev = scrollY / innerHeight, vS = 0, last = 0, puffs = [];
+let sPrev = scrollY / innerHeight, sSm = sPrev, vS = 0, last = 0, puffs = [];
 function frame(now) {
   requestAnimationFrame(frame);
   const dt = Math.min(.05, (now - (last || now)) / 1000); last = now;
-  const s = scrollY / H; vS = lerp(vS, dt ? (s - sPrev) / dt : 0, .15); sPrev = s;
+  sSm += (scrollY / H - sSm) * (calm ? 1 : 1 - Math.exp(-dt * 5)); // 휠 한 칸에 툭 건너뛰지 않고 부드럽게 따라감
+  const s = sSm; vS = lerp(vS, dt ? (s - sPrev) / dt : 0, .15); sPrev = s;
   const sc = scene(s, now, vS);
   const p = follow(sc.p, dt || .016);
   let r = rig(p, S, sc.gx, GY);
